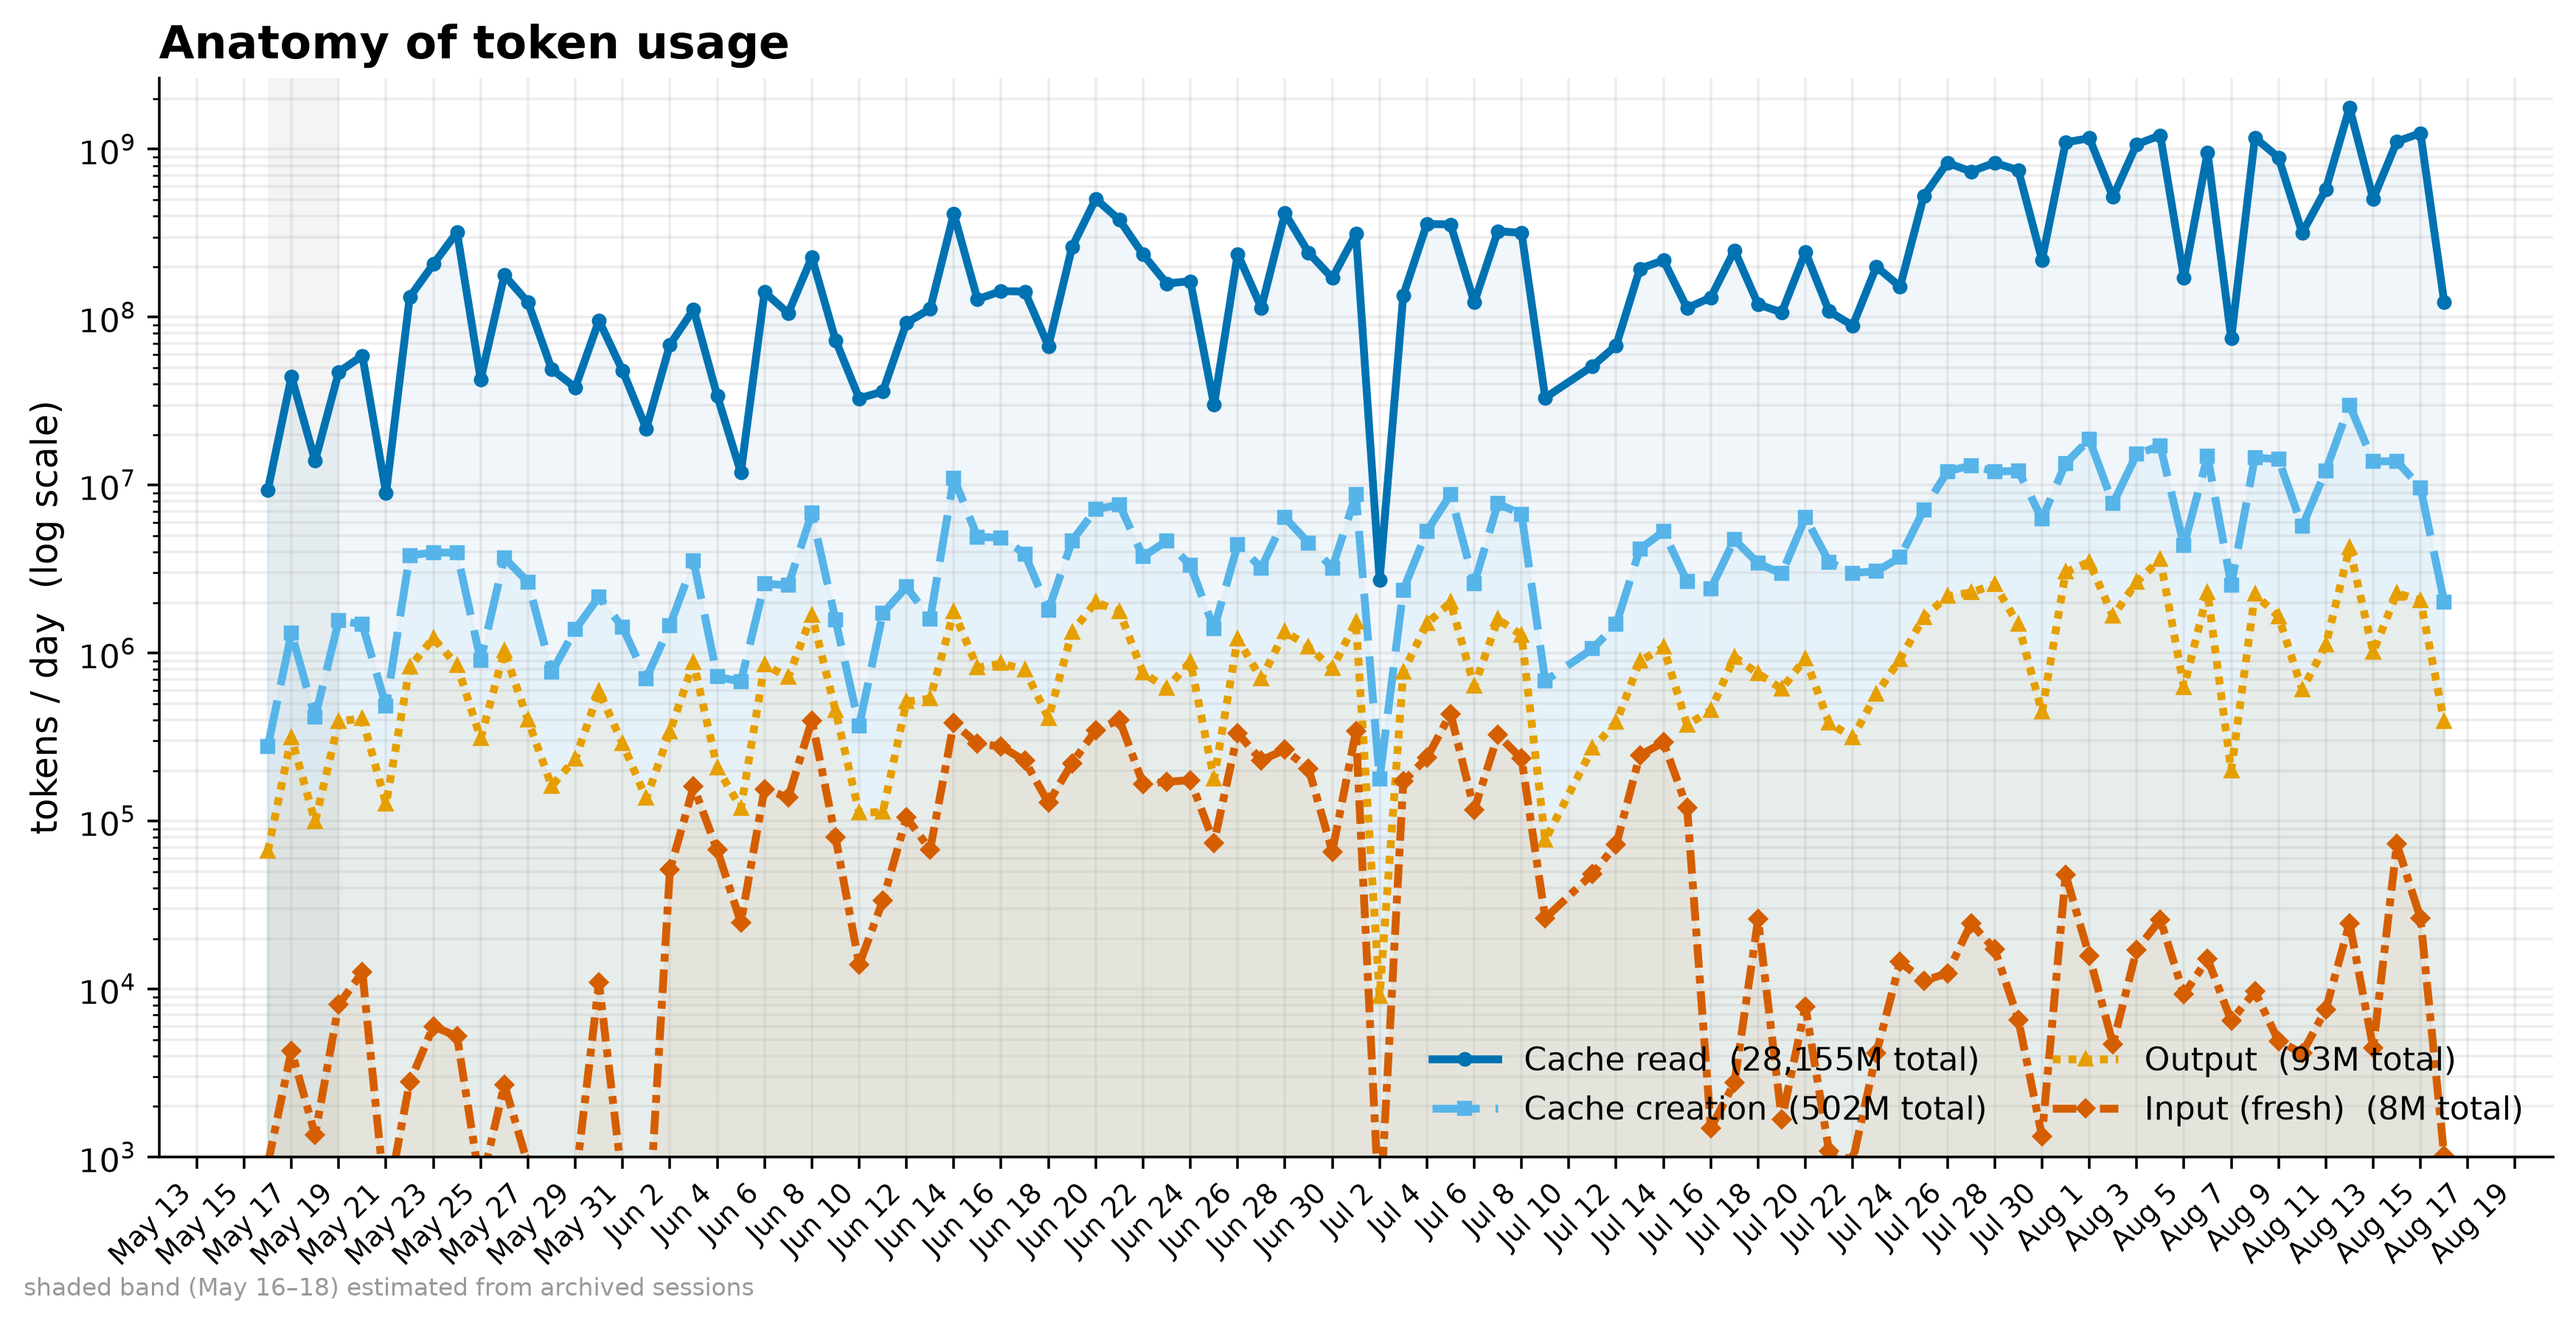
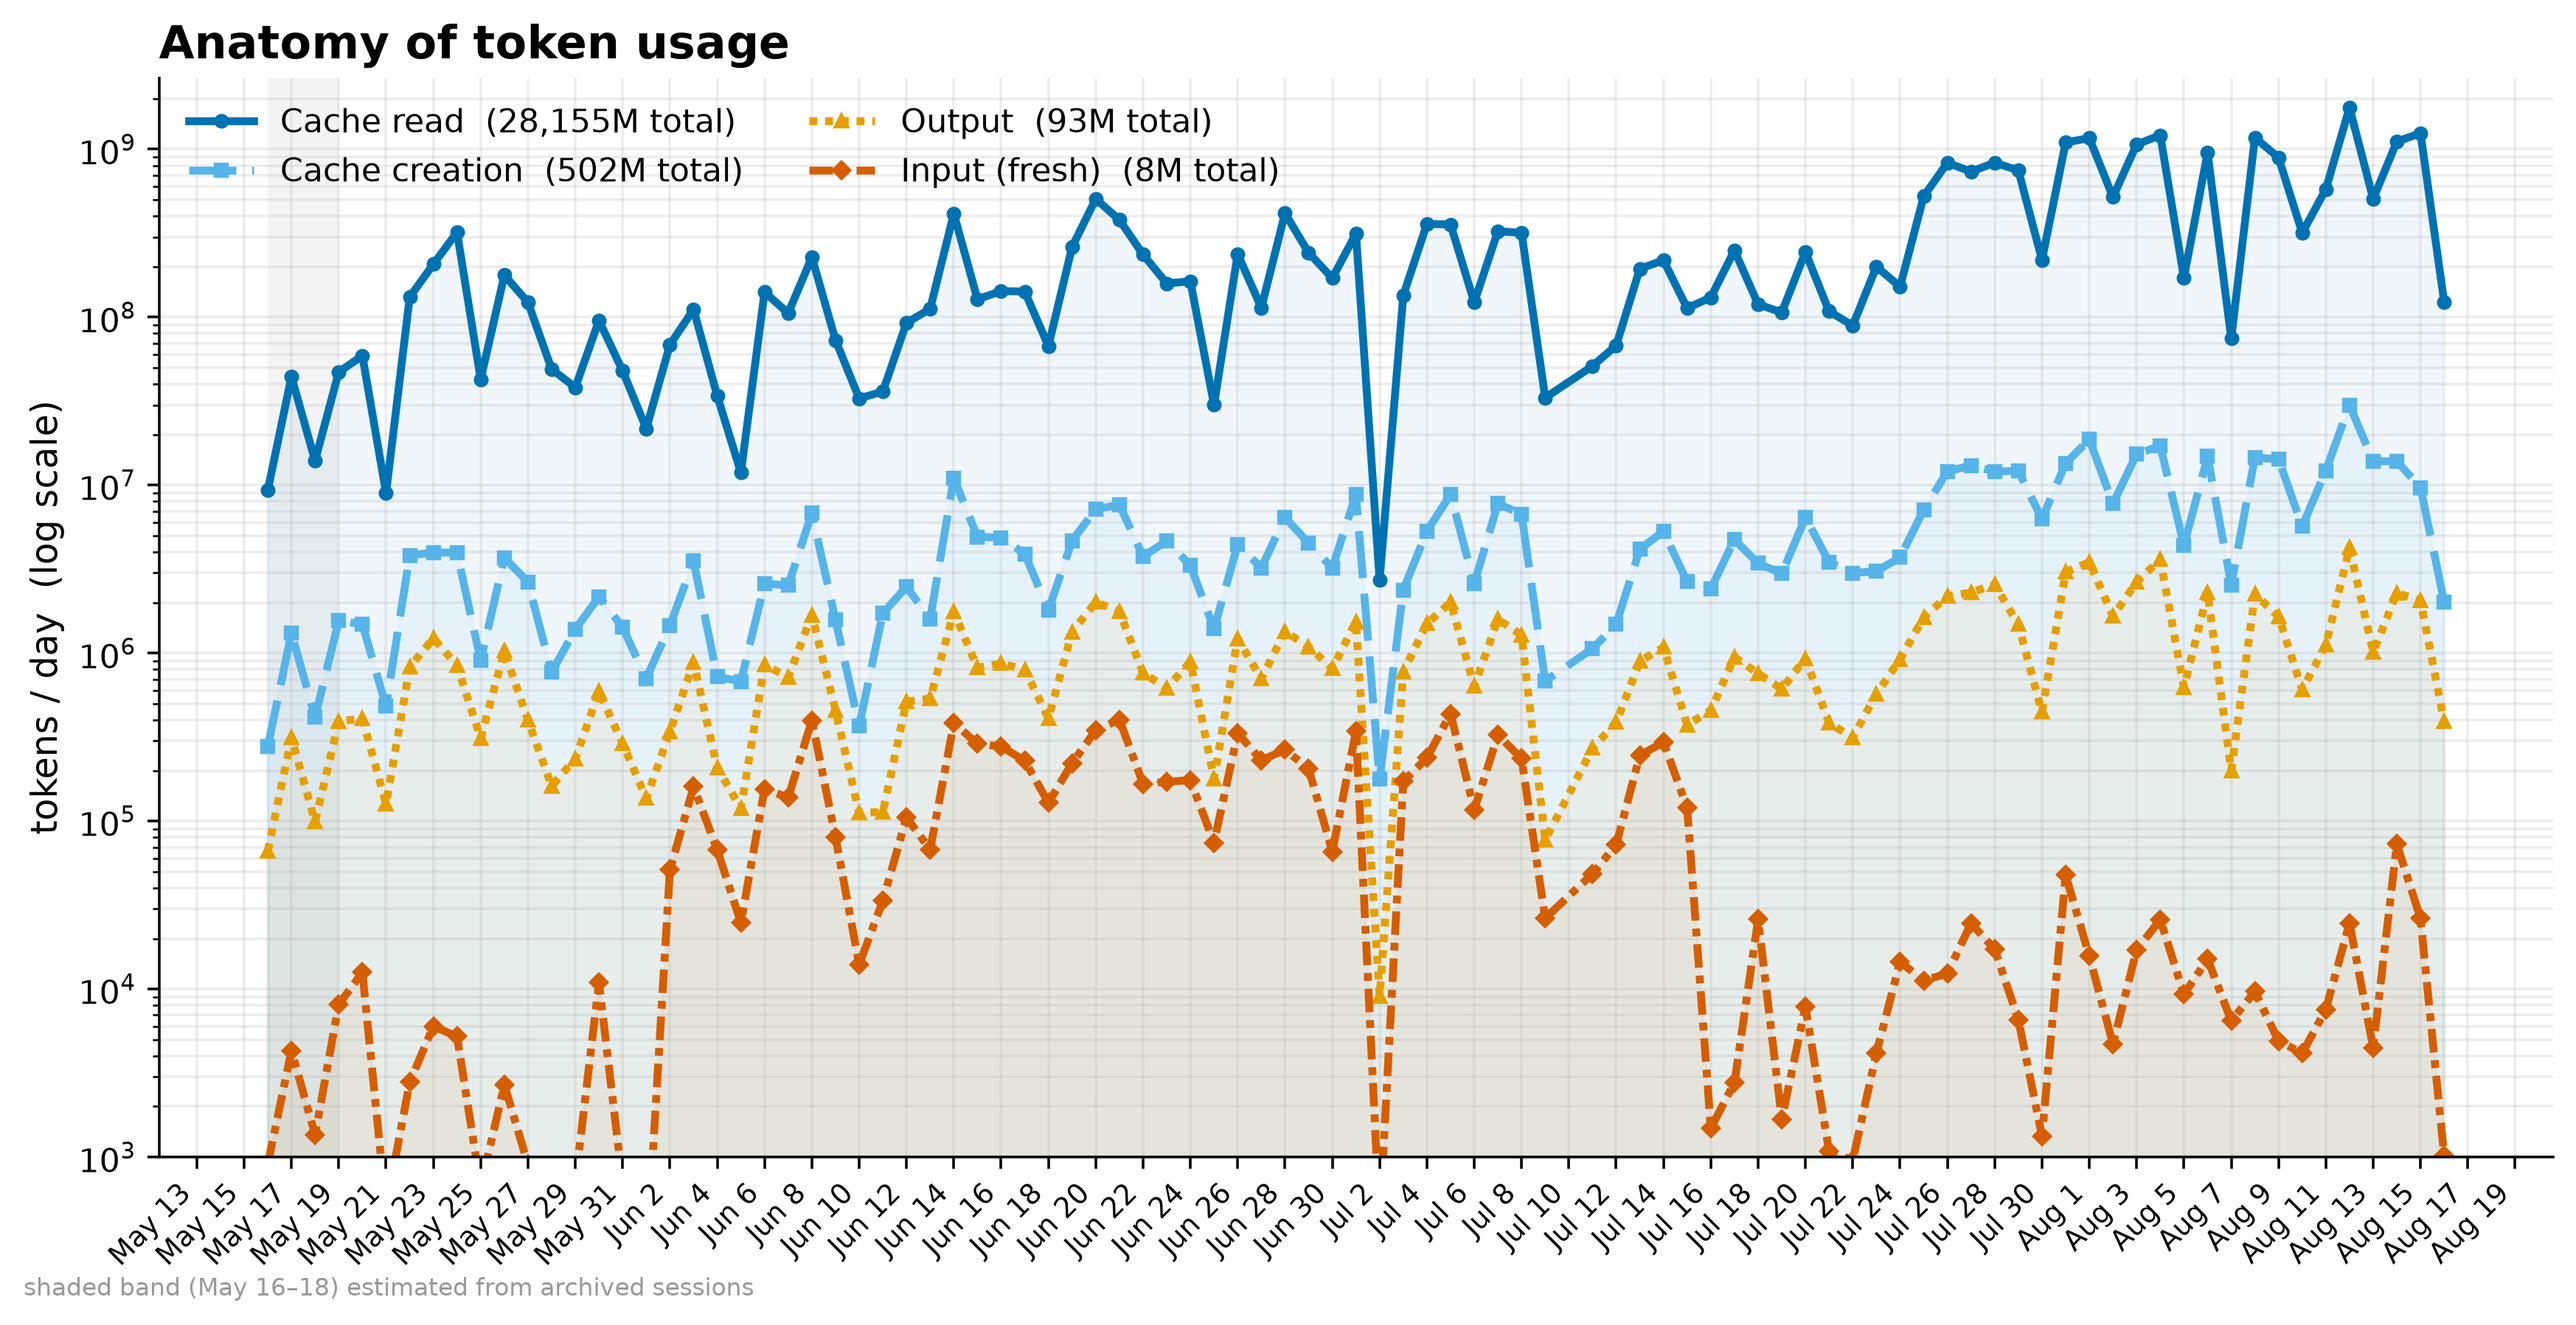
fix(charts): move the token-anatomy legend off the series it covered (#1586)
At lower right the legend sat on the input line and the shading under it, in the
densest corner of the chart.

Upper left is the one region no series enters. The four series are ordered by
magnitude and never cross, so the band above the cache-read line is empty for the
whole timeline, and it is widest early on where the cache-read values are lowest.

diff --git a/claude-usage/make_charts.py b/claude-usage/make_charts.py
@@ -746,7 +746,10 @@ def chart_token_anatomy():
     ax.xaxis.set_major_formatter(mdates.DateFormatter("%b %-d"))
     ax.xaxis.set_major_locator(mdates.DayLocator(interval=2))
     plt.setp(ax.get_xticklabels(), rotation=45, ha="right", fontsize=8.5)
-    ax.legend(frameon=False, fontsize=10, loc="lower right", ncol=2)
+    # Upper left: the series are ordered by magnitude and never cross, so the band
+    # above the cache-read line early in the timeline is the one region no series
+    # enters. Lower right sat on the input line and its shading.
+    ax.legend(frameon=False, fontsize=10, loc="upper left", ncol=2)
     for s in ("top", "right"):
         ax.spines[s].set_visible(False)
     ax.grid(alpha=0.22, which="both")
